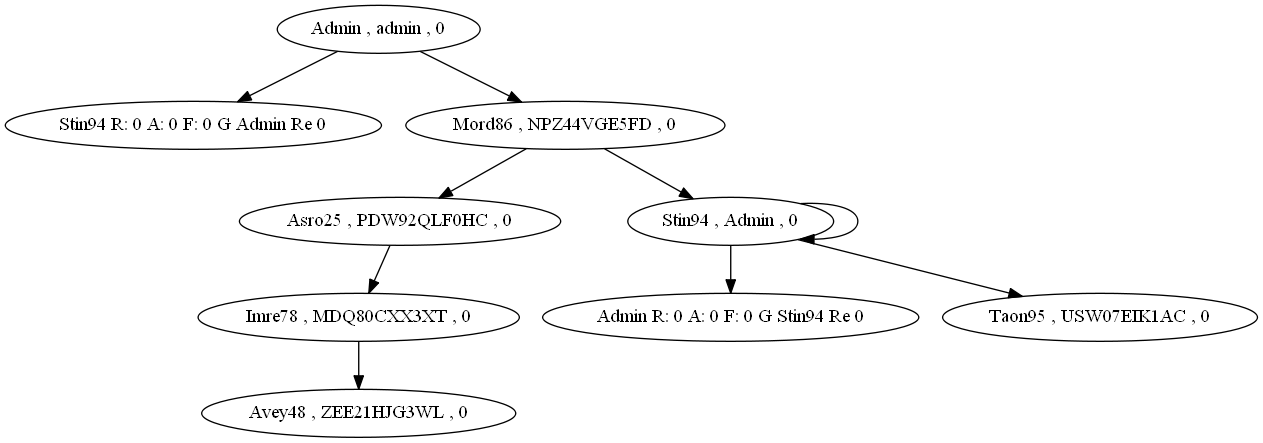
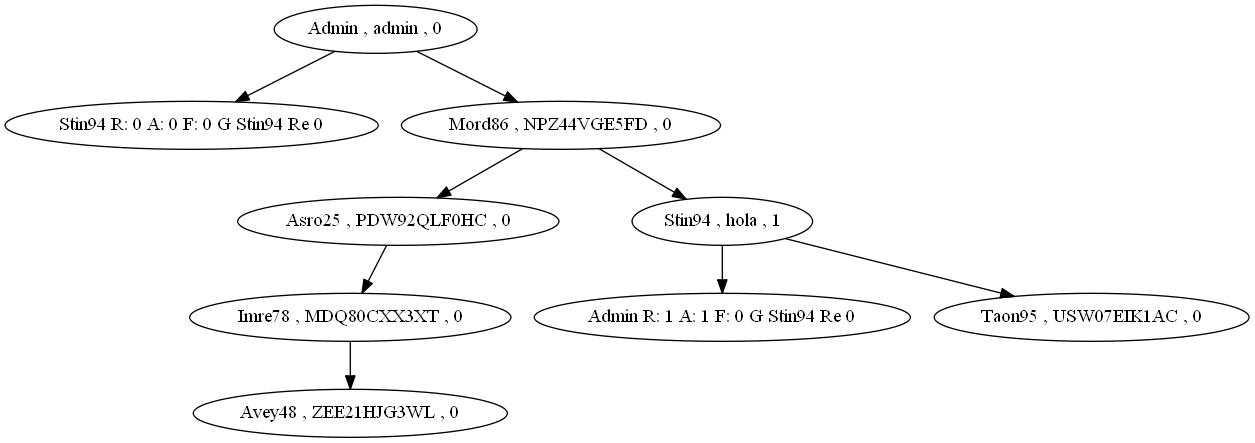
Hoy Si Terminado
asdjaks

diff --git a/servidor.py b/servidor.py
@@ -169,12 +169,14 @@ def tiro():
 			game.turno = game.usuario1
 			game.dips = int(game.rafagas)
 	if tirarA != None:
+		dis.R = dis.R + 1
 		t = tirarA.cubo.tiro(x,y,z)
 		if t == True:
 			dis.disparosA.Insertar(int(x),int(y),int(z),"boom")
-
+			dis.A = dis.A +1
 		else:
 			dis.disparosF.Insertar(int(x),int(y),int(z),"boom")
+			dis.F = dis.F +1
 			print("********************"+ str(t)+"*****")
 		return "Tiro True"
 	return "No Funciono"					
@@ -281,15 +283,15 @@ def gane():
 		if res == "True":
 			if game.registro == False:
 				nodo = tirarA.lista.insertar(dis.usuario)
-				nodo.tirosR = 0
-				nodo.tirosA = 0
-				nodo.tirosF = 0
-				nodo.ganada = tirarA.usuario
+				nodo.tirosR = tirarA.R
+				nodo.tirosA = tirarA.A
+				nodo.tirosF = tirarA.F
+				nodo.ganada = dis.usuario
 				nodo.dano = 0
 				nodo = dis.lista.insertar(tirarA.usuario)
-				nodo.tirosR = 0
-				nodo.tirosA = 0
-				nodo.tirosF = 0
+				nodo.tirosR = dis.R
+				nodo.tirosA = dis.A
+				nodo.tirosF = dis.F
 				nodo.ganada = dis.usuario
 				nodo.dano = 0
 				game.registro = True

diff --git a/ArbolBinario.py b/ArbolBinario.py
@@ -14,6 +14,9 @@ class 	Nodo():
 		self.disparosF = MatrizDispersa.Matriz()
 		self.derecha = None
 		self.izquierda = None
+		self.R =0
+		self.F =0
+		self.A =0
  
 class 	ArbolBinario():
 	def __init__(self):
